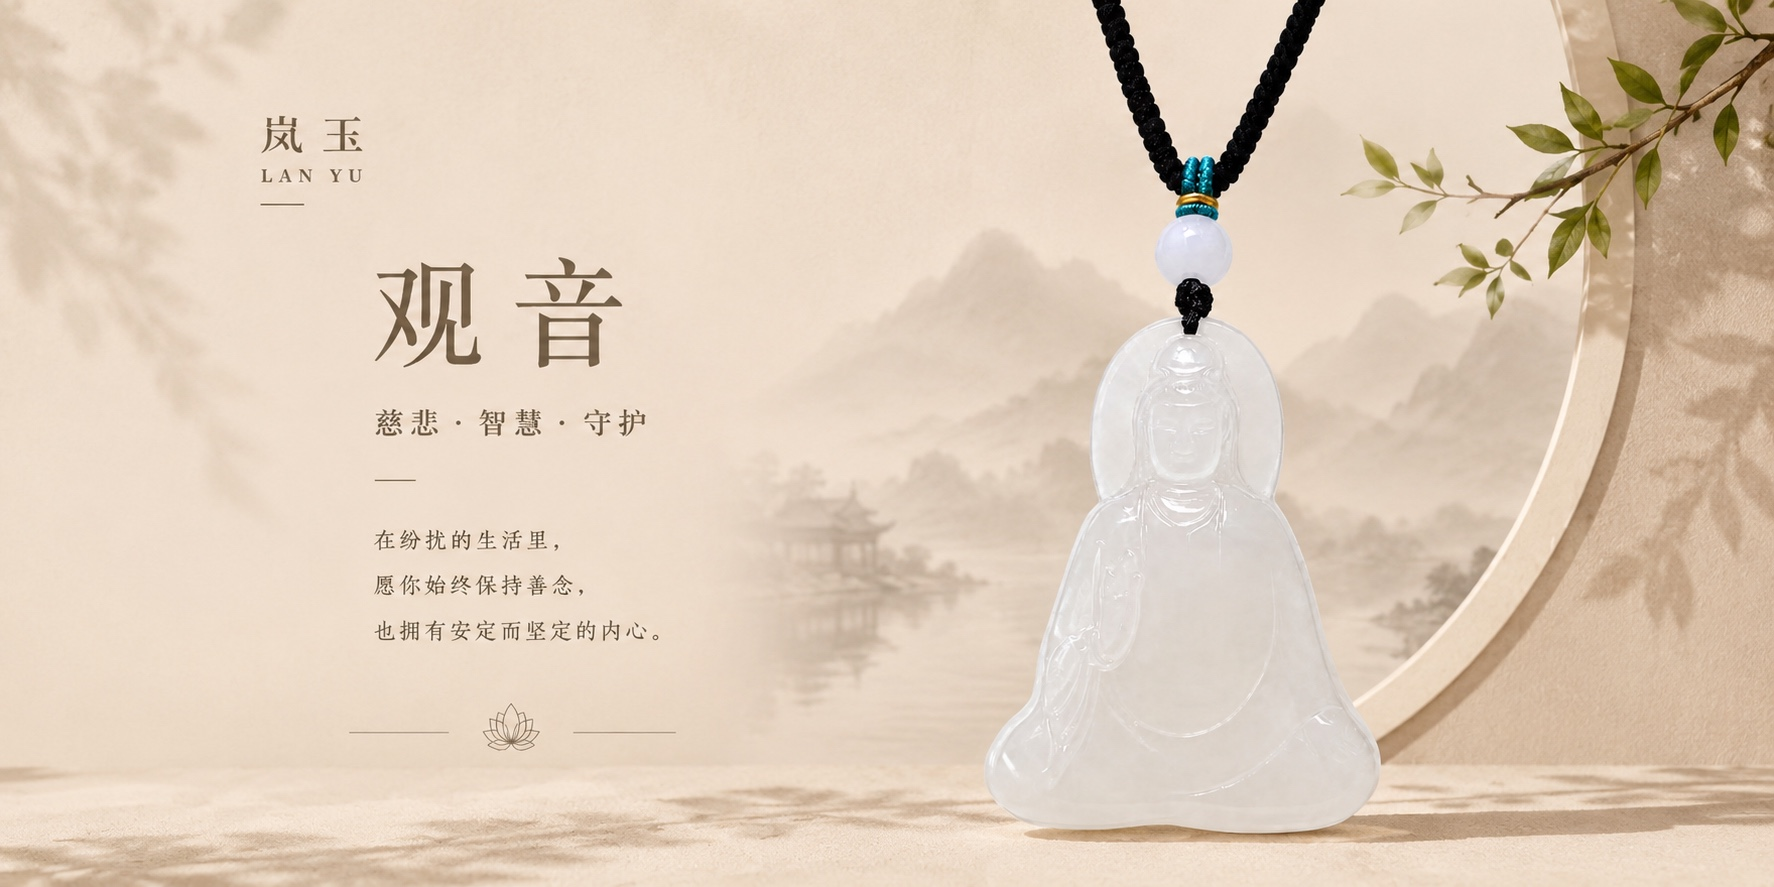
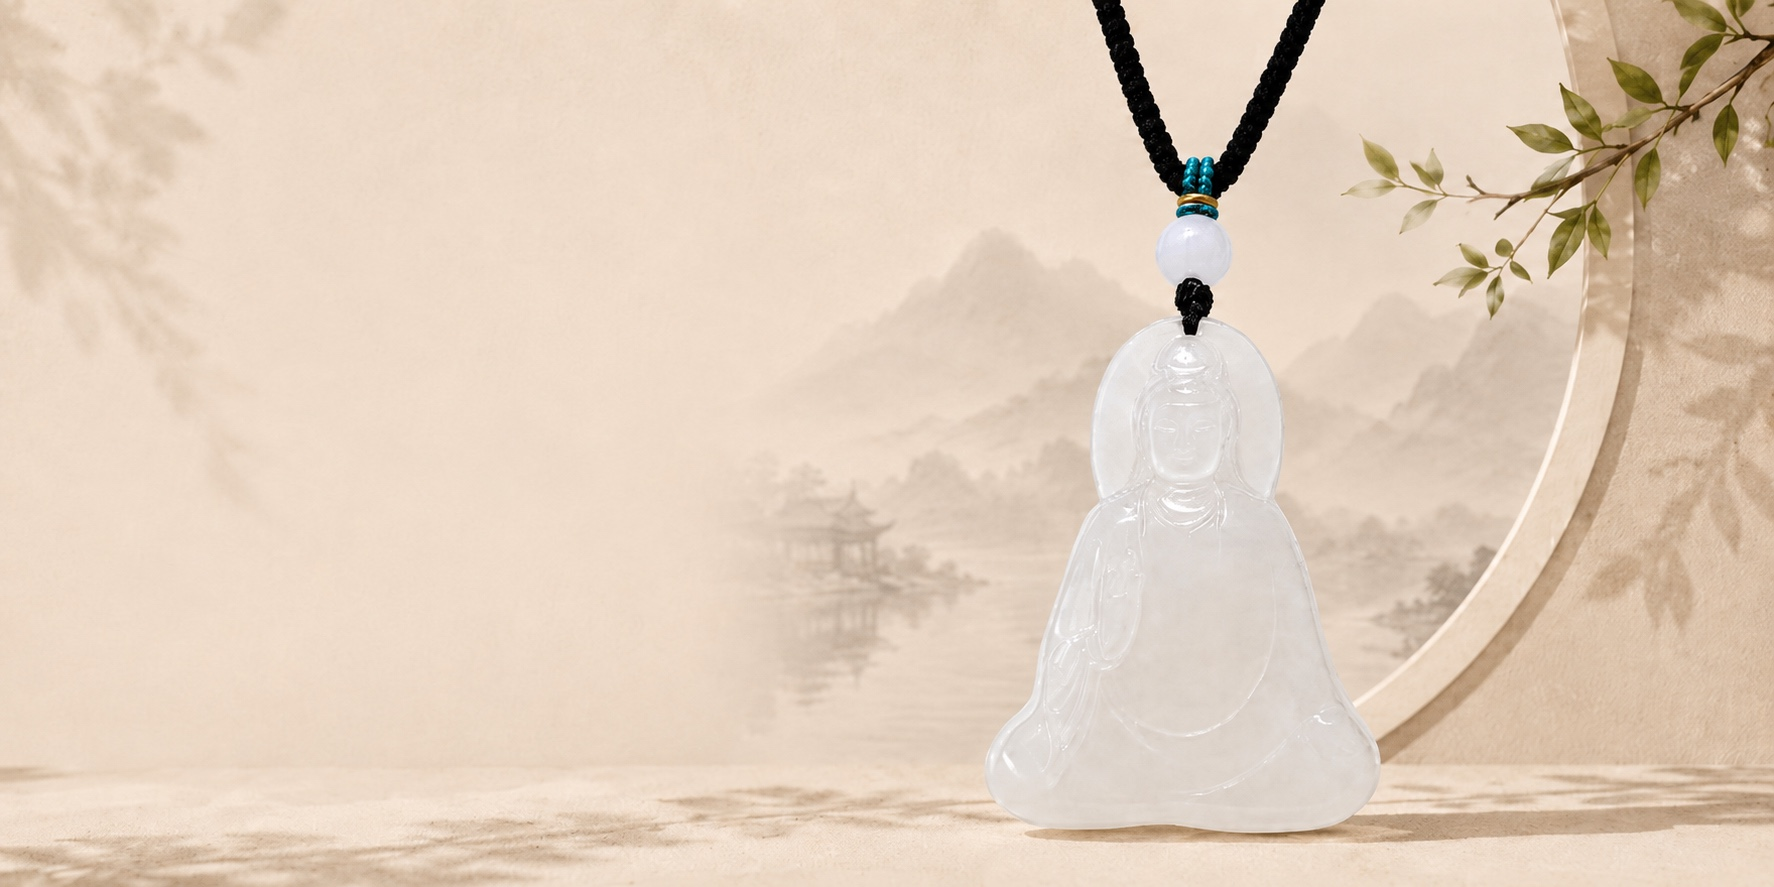
Replace low-resolution guanyin and story marketing images
Swap lanyu-guanyin.jpg and lanyu-story.jpg with new clean (no baked-in
text) high-resolution banner photography that properly reserves negative
space for the dynamic text overlay.

Drop the hasBakedText flag from both slides now that the images no
longer have title/copy burned into the photo, restoring the HTML text
overlay for them. Story slide's CTA now links to the OTHER collection
("查看更多藏品") instead of the generic /collections index.

diff --git a/src/components/hero-carousel.tsx b/src/components/hero-carousel.tsx
@@ -44,17 +44,15 @@ const SLIDES: Slide[] = [
     ctaText: "查看观音系列",
     ctaHref: "/collections/GUANYIN",
     theme: "dark",
-    hasBakedText: true,
   },
   {
     image: "/marketing/lanyu-story.jpg",
     eyebrow: "从珍藏到分享",
     title: ["每一块玉石", "都有它的缘分"],
     subtitle: "希望每一块玉石，都能遇见属于自己的珍惜之人。",
-    ctaText: "阅读品牌故事",
-    ctaHref: "/collections",
+    ctaText: "查看更多藏品",
+    ctaHref: "/collections/OTHER",
     theme: "dark",
-    hasBakedText: true,
   },
 ];
 